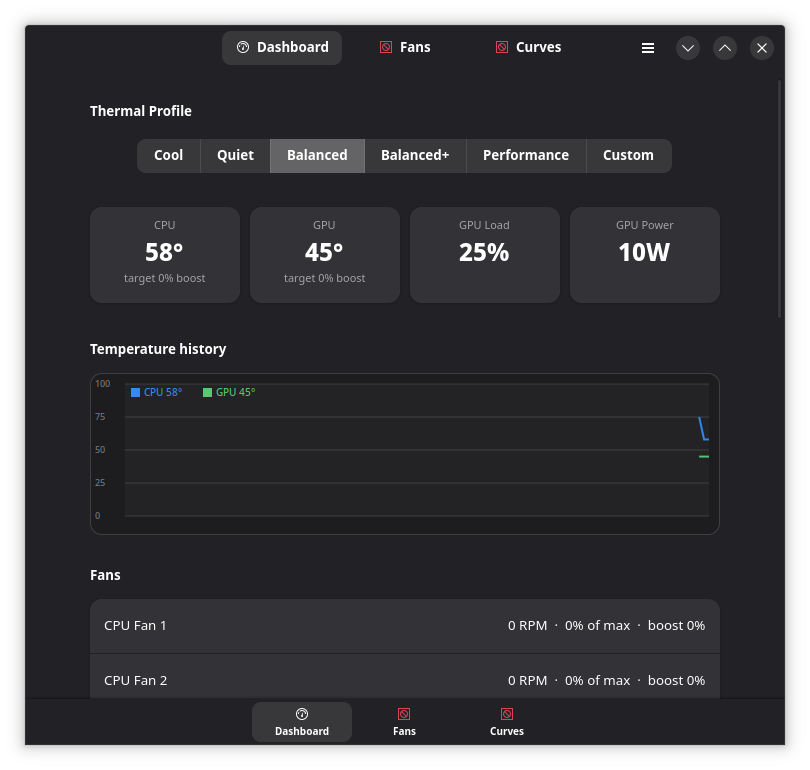
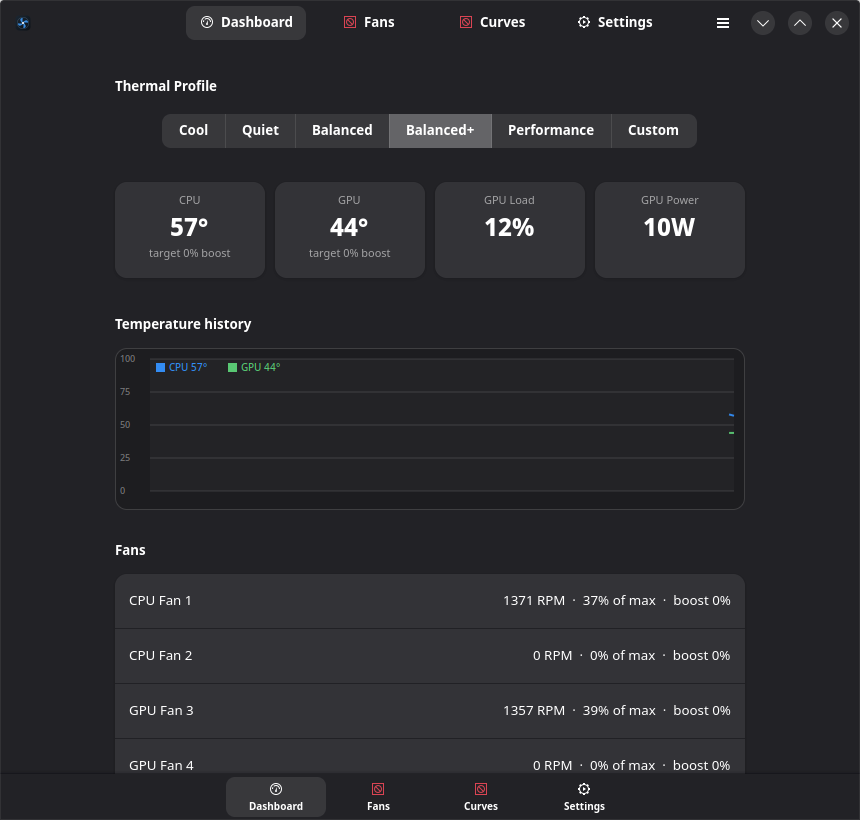
docs: refresh README to current state; force full redraws; fix arrow glyph
- README: regenerate all screenshots from GTK's own renderer (clean, dash-free,
  now showing the 4-tab UI); add Fans + Settings shots; correct the stale safety
  note (power profile and fan mode are independent — the daemon no longer forces
  the 'custom' profile) and the module layout table (tray.py, settings.py).
- Additionally force full-scene redraws (GSK_DEBUG=full-redraw) alongside the
  cairo renderer: the stray-pixel-by-titles artifact is a compositor damage-
  tracking issue (the app's own render is clean), and full redraws prevent any
  partial-damage region from leaving a stale pixel.
- curve editor: render the live marker with ASCII "->" instead of U+2192, which
  cairo's toy-font path drew as tofu.

diff --git a/awcc_gui/app.py b/awcc_gui/app.py
@@ -5,13 +5,15 @@ from __future__ import annotations
 import os
 import sys
 
-# GTK4's GPU renderers (ngl/gl/vulkan) intermittently leave a stale 1px damage
-# artifact on some GPU/compositor combos (observed on NVIDIA + KWin): a stray
-# pixel next to group titles that only clears on window resize. Testing showed
-# every GPU renderer exhibits it occasionally while the software (cairo) renderer
-# is reliably clean. This UI is lightweight, so software rendering costs nothing
-# noticeable. Must be set before GTK initialises; respect an explicit override.
+# Work around a compositor damage-tracking artifact (observed on NVIDIA + KWin):
+# a stray 1px pixel appears next to group titles and only clears on window
+# resize. The app's own render is clean — it's introduced during partial
+# repaints — so the fix is to (a) use the software renderer, which is immune to
+# GPU-renderer damage quirks, and (b) force full-scene redraws so no partial
+# damage region can leave a stale pixel. Both are cheap for this lightweight UI
+# and must be set before GTK initialises. Respect explicit overrides.
 os.environ.setdefault("GSK_RENDERER", "cairo")
+os.environ.setdefault("GSK_DEBUG", "full-redraw")
 
 import gi  # noqa: E402
 

diff --git a/awcc_gui/curve_editor.py b/awcc_gui/curve_editor.py
@@ -223,7 +223,8 @@ class FanCurveEditor(Gtk.DrawingArea):
             cr.fill()
             cr.set_source_rgba(1, 1, 1, 0.85)
             cr.move_to(min(x + 6, ml + pw - 60), mt + 12)
-            cr.show_text(f"{self.current_temp:.0f}° → {cb:.0f}%")
+            # Use ASCII "->": cairo's toy-font path renders U+2192 as tofu.
+            cr.show_text(f"{self.current_temp:.0f}° -> {cb:.0f}%")
 
         # Control points.
         for t, b in self.points:

diff --git a/README.md b/README.md
@@ -8,7 +8,10 @@ fan boost, and fully custom **fan curves** — driven by the mainline
 `alienware-wmi` kernel driver.
 
 ![Dashboard](docs/dashboard.png)
-![Fan curves](docs/curves.png)
+
+| Custom fan curves | Fan control | Settings |
+|:---:|:---:|:---:|
+| ![Fan curves](docs/curves.png) | ![Fan control](docs/fans.png) | ![Settings](docs/settings.png) |
 
 ---
 
@@ -145,15 +148,20 @@ python3 -m awccd.main &
 |------|---------|
 | `awccd/` | root daemon: `hardware.py` (sysfs/nvidia), `config.py` (curves), `engine.py` (control loop), `server.py` (socket), `main.py` |
 | `awcc_client.py` | shared socket client |
-| `awcc_gui/` | GTK4 GUI: `app.py`, `curve_editor.py`, `graph.py`, `backend.py` |
+| `awcc_gui/` | GTK4 GUI: `app.py`, `curve_editor.py`, `graph.py`, `tray.py` (system tray), `settings.py` (autostart/tray prefs), `backend.py` (socket bridge) |
 | `awcc`, `awcc-cli` | launchers |
 | `packaging/` | systemd unit, `.desktop`, install/uninstall |
 
 ## Safety notes
 
-- `fanN_boost` is **additive** and honoured by the firmware only in the `custom`
-  platform profile; the daemon switches to `custom` automatically for curve and
-  manual modes. Boost adds cooling; it cannot disable the EC's own protection.
+- Fan control uses the driver's **additive** `fanN_boost` mechanism: boost only
+  ever *adds* cooling on top of the embedded controller's own curve, so a curve
+  or manual level can't undercool the machine — the EC keeps its safety floor.
+- Power profile and fan mode are **independent**. The daemon keeps whatever
+  `platform_profile` you selected and layers boost on top; it never overrides
+  your profile. (On the Alienware m18 R1 boost is honoured under any profile.
+  A few other models only honour `fanN_boost` while the `custom` profile is
+  active — there, pick the **Custom** profile in addition to a fan mode.)
 - The daemon writes defensively — a single failed sysfs write is logged and
   skipped, never crashing the control loop.
 - Nothing is exposed over the network; the only interface is a local,